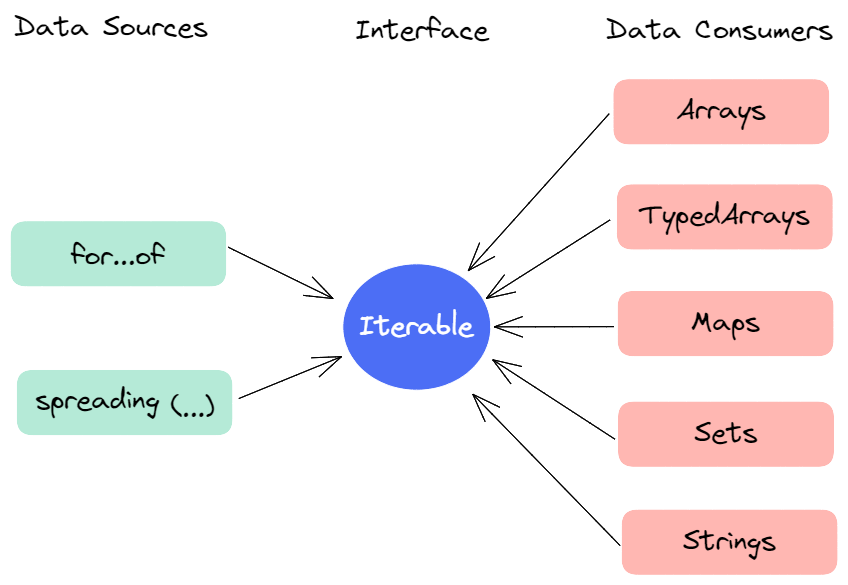
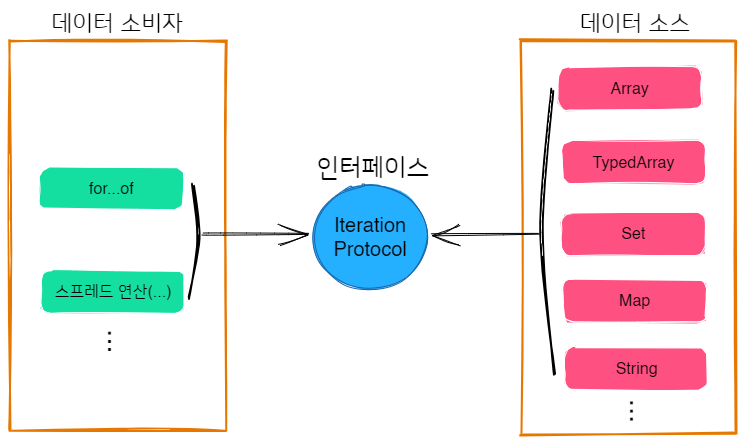
'자바스크립트 Iteration 프로토콜' 포스트 개정

diff --git a/content/blog/javascript/iteration-protocol.md b/content/blog/javascript/iteration-protocol.md
@@ -7,18 +7,22 @@ draft: false
 
 ## Iteration 프로토콜
 
-자바스크립트의 iteration 프로토콜은 데이터 소스(sources)와 데이터 소비자(consumer) 개체(entity)를 연결하는 역할을 합니다. Iteration은 데이터 소스가 구현한 `Iterable` 이라는 인터페이스를 데이터 소비자가 사용하는 방식으로 동작합니다:
+자바스크립트의 **Iteration 프로토콜**은 데이터 소비자(data consumer)가 다양한 종류의 데이터 소스(data source)를 순회할 때 일관된 방식으로 순회할 수 있도록 데이터 제공자와 데이터 소비자를 연결하는 *인터페이스* 역할을 합니다. 예를 들어, `for...of`(데이터 소비자) 문이 배열과 같은 대표적인 데이터 소스 뿐만 아니라 `Map`, `Set` 자료형과 같은 데이터 소스를 순회할 때도 일관된 방식으로 순회할 수 있도록 규칙을 정한 것이죠.
+
+자바스립트에서 순회는 데이터 소스가 구현한 `Iterable` 이라는 인터페이스를 데이터 소비자가 사용하는 방식으로 동작합니다:
 
 <figure>
     <img src="https://cdn.jsdelivr.net/gh/jaehyeon48/jaehyeon48.github.io@master/assets/images/javascript/iterator-protocol/data_sources_and_consumers.png" alt="JavaScript data sources and consumers">
-    <figcaption>자바스크립트 데이터 소스와 데이터 소비자 및 이들을 연결하는 인터페이스</figcaption>
+    <figcaption>자바스크립트 데이터 제공자와 데이터 소비자 및 이들을 연결하는 인터페이스</figcaption>
 </figure>
 
 자바스크립트 iteration 프로토콜에는 **iterable 프로토콜**과 **iterator 프로토콜**이 존재하는데, 하나씩 살펴봅시다.
 
 ## Iterable 프로토콜
 
-Iterable 프로토콜은 자바스크립트 객체가 `for...op`문, `...`연산과 같은 "iteration" 동작을 할 때 어떤 식으로 행동할지를 정의하는 프로토콜 입니다. 객체가 `iterable`이 되기 위해선 해당 객체의 내부 혹은 프로토타입 체인내에 `@@iterator` 메서드가 존재해야 합니다. `@@iterator`는 [well-known-symbol](https://tc39.es/ecma262/#sec-well-known-symbols)이라고 하는데, [Symbol.iterator](https://developer.mozilla.org/en-US/docs/Web/JavaScript/Reference/Global_Objects/Symbol/iterator)라는 상수를 통해 접근할 수 있습니다. ES2021을 기준으로 자바스크립트에는 `String`, `Array`, `TypedArray`, `Map`, `Set` 5가지 내장 iterable이 존재합니다.
+`for...of`, `...`연산과 같은 순회 동작을 할 때 데이터 공급자가 어떤 식으로 동작할지를 정의하는 프로토콜을 **Iterable 프로토콜**이라고 합니다. 이때 iterable 프로토콜을 만족하는 객체를 `Iterable` 이라고 합니다.
+
+자바스크립트 객체가 `Iterable`이 되기 위해선 해당 객체의 내부 혹은 프로토타입 체인 내에 [Symbol.iterator](https://developer.mozilla.org/en-US/docs/Web/JavaScript/Reference/Global_Objects/Symbol/iterator) 메서드가 정의되어 있어야 하고, 이 메서드는 "iterator"를 반환해야 합니다. ES2021을 기준으로 자바스크립트에는 `String`, `Array`, `TypedArray`, `Map`, `Set` 5가지 built-in iterable이 존재합니다.
 
 Iterable을 타입스크립트 인터페이스로 나타내면 다음과 같습니다:
 
@@ -30,9 +34,9 @@ interface Iterable<T> {
 
 ## Iterator 프로토콜
 
-Iterator 프로토콜은 iterable 객체를 iteration할 때 어떤 값을 생성할 것인가를 정의하는 프로토콜입니다. 객체가 `iterator`가 되기 위해선 `iteration result` 객체를 반환하는 `next()` 메서드를 가지고 있어야 합니다.
+**Iterator 프로토콜**은 데이터 소스를 순회할 때 어떤 값을 생성할 것인가를 정의하는 프로토콜로서, iterator 프로토콜을 만족하는 객체를 `iterator`라고 합니다. 이때, 어떤 객체가 iterator 프로토콜을 만족하기 위해선 `iteration result` 객체를 반환하는 `next()` 메서드를 가지고 있어야 합니다.
 
-Iterator와 iteration result 객체를 타입스크립트 인터페이스로 나타내면 다음과 같습니다:
+`Iterator`와 `iteration result` 객체를 타입스크립트 인터페이스로 나타내면 다음과 같습니다:
 
 ```ts
 interface Iterator<T> {
@@ -45,22 +49,20 @@ interface IteratorResult<T> {
 }
 ```
 
-IterationResult 객체의 `value`와 `done` 속성이 나타내는 것은 다음과 같습니다:
+`IterationResult` 객체의 `value`와 `done` 속성이 나타내는 것은 다음과 같습니다:
 
-- **value**: `iterator`에 의해 반환된 값입니다. 아무 타입이나 가능하며, `done` 속성이 `true`이면 생략될 수도 있습니다.
-- **done**: iteration의 종료 여부를 나타내는 boolean 값입니다. 이 속성을 생략하면 `done: false`로 간주합니다.
+- **value**: `iterator`에 의해 반환된 값으로, 특정 순회에서 사용되며 아무 타입이나 가능합니다. 만약 `done` 속성이 `true`이면 생략될 수도 있습니다.
+- **done**: 순회 종료 여부를 나타내는 boolean 값으로, 이 속성을 생략하면 `done: false`로 간주합니다.
 
-<br />
-
-`next()` 메서드는 반드시 `value`와 `done` 속성이 존재하는 객체를 반환해야만 합니다. `false`와 같은 원시 타입이 반환되면 `TypeError`가 발생합니다.
+이때, `next()` 메서드는 반드시 `value`와 `done` 속성이 존재하는 객체를 반환해야 합니다. `false`와 같은 원시 타입이 반환되면 `TypeError`가 발생합니다.
 
 `for...of` 문의 `break`을 사용하는 경우 혹은 예외 상황과 같이, `iteration result` 객체의 `done` 속성이 `true`가 되기 전에 iteration이 종료되는 경우도 있습니다. 이 경우 자바스크립트 엔진은 `iterator` 객체에 `return()` 메서드가 존재하는지 살펴보고 만약 존재한다면 이 메서드를 아무런 인자 없이 호출합니다. 이때 `return()` 메서드 또한 반드시 `iteration result` 객체를 반환해야만 하는데, 비록 반환된 객체의 속성이 무시되기는 하지만 그렇다고 원시 타입을 반환하면 에러가 발생합니다. `return()` 메서드는 주로 iteration 동작을 종료한 뒤 클린업 작업을 수행해야 할 때, 예기치 못한 에러 등으로 인해 동작이 중간에 종료되는 경우에도 정상적으로 클린업 작업을 수행하기 위해 사용합니다.
 
-## Iterable 객체를 iterate 하는 방법
+## Iterable 객체를 순회하는 방법
 
-`Iterable` 객체를 iterate 하는 방법은 다음과 같습니다:
+`Iterable` 객체를 순회하는 방법은 다음과 같습니다:
 
-1. `Iterable` 객체의 `@@iterator` 메서드를 호출하여 해당 객체의 `iterator` 객체를 획득합니다.
+1. `Iterable` 객체의 `Symbol.iterator` 메서드를 호출하여 해당 객체의 `iterator` 객체를 획득합니다.
 2. `iterator` 객체가 반환하는 `iteration result` 객체의 `done` 속성값이 `true`가 될 때까지 `next()` 메서드를 호출합니다.
 
 이를 그림으로 나타내면 다음과 같습니다:
@@ -93,31 +95,91 @@ for (const elem of iterable) {
 
 예를 들어 아주 긴 문자열을 공백으로 분리하여 여러 단어들로 토큰화하는 경우를 생각해봅시다. `.split()` 메소드를 사용하면 손쉽게 할 수 있지만, 이렇게 하면 분리하여 얻은 첫 번째 단어를 사용하기도 전에 미리 모든 문자열을 처리해놓게 됩니다. 만약 이렇게 했다가 나중에 알고 보니 처음 몇 개의 단어만 사용하고 나머지는 사용하지 않게 된다면 불필요한 메모리 낭비를 초래하게 됩니다.
 
-또한 `iterable`, `iterator` 프로토콜을 통해 배열과 같이 주로 iteration의 대상이 되는 자료 구조 이외의 어느 자료구조라도 손쉽게 iteration을 할 수 있게 됩니다.
+여태껏 살펴본 내용을 정리해보면 다음과 같습니다:
 
-## 비동기 iteration
+- **iteration protocol**: 다양한 종류의 데이터 소스를 일관된 방식으로 순회할 수 있도록 정의한 인터페이스.
+- **iterable**: iterable protocol을 만족하는 객체로서, `iterator`를 반환하는 `Symbol.iterator()` 메서드를 가지고 있거나 프로토타입 체인을 통해 찾을 수 있는 객체.
+- **iterator**: `iteration result` 객체를 반환하는 `next()` 메서드를 구현한 객체.
+- **iteration result**: 특정 순회에서 사용되는 값인 `value`와 순회 종료 여부를 나타내는 `done` 프로퍼티를 가지고 있는 객체.
 
-우선 앞서 살펴본 iterator와 iterator result의 인터페이스를 다시 한번 살펴봅시다:
+## 예시
 
-```ts
-interface Iterator<T> {
-  next(): IteratorResult<T>;
-}
+우선, `iterable`이 아닌 일반 객체를 살펴봅시다:
 
-interface IteratorResult<T> {
-  value: T;
-  done: boolean;
+```js
+// iterable이 아닌 일반 객체는 for...of문을 사용할 수 없습니다.
+const normalObj = { a: 1, b: 2 };
+
+// TypeError: normalObj is not iterable
+for (const value of normalObj) {
+  console.log(value);
 }
 ```
 
-비동기 iteration 프로토콜을 구현하기 위해선 `next()` 메서드의 반환 값을 비동기로 전달하기만 하면 됩니다. 이를 위해 다음의 두 가지 방법을 고려해볼 수 있습니다:
+하지만 위 객체가 iterable 프로토콜을 준수하도록 `Symbol.iterator()` 메서드를 구현하고, 이 메서드에서 iterator를 리턴하도록 하면 아래와 같이 `for...of` 문을 순회할 수 있게 됩니다:
 
-- `value`만 프로미스로 감쌀 것인가? (`value`의 타입이 `Promise<T>`)
-- `next()` 메서드가 프로미스를 반환할 것인가? (`next()`의 리턴 타입이 `Promise<IteratorResult<T>>`)
+```js
+function range(from, to) {
+  let curVal = from - 1;
 
-하지만 생각해보면 두 번째 방법이어야만 합니다. 그 이유는 `next()` 메서드가 결과를 반환할 때 비동기 작업을 수행하기 때문인데, 작업의 결과값을 반환할지 아니면 iteration의 종료를 알릴지는 비동기 작업이 끝난 이후에야 할 수 있습니다. 다시 말해, `value`와 `done` 속성 모두 프로미스로 감싸야 한다는 의미입니다.
+  // Symbol.iterator() 메서드를 구현함으로써 이 객체는
+  // iterable이 됩니다.
+  return {
+    [Symbol.iterator]() {
+      // Symbol.iterator() 메서드는 iterator를 반환해야 합니다.
+      return {
+        // next() 메서드는 iteration result 객체를 반환해야 합니다.
+        next() {
+          // iteration result 객체
+          curVal++;
+          
+          return {
+            value: curVal,
+            done: curVal === to
+          };
+        }
+      };
+    }
+  };
+}
 
-비동기 iteration에 대한 인터페이스는 다음과 같습니다:
+for (const value of range(1, 5)) {
+  console.log(value); // 1 2 3 4
+}
+```
+
+이때, 어떤 객체가 `iterable` 이면서 `iterator` 이도록 구현할 수 있는데, 이렇게 하면 좀 더 간단하게 `iterable`을 만들 수 있습니다:
+
+```js
+function range(from, to) {
+  let curVal = from - 1;
+
+  return {
+    [Symbol.iterator]() { return this; },
+    next() {
+      curVal++;
+
+      return {
+        value: curVal,
+        done: curVal === to
+      };
+    }
+  };
+}
+
+for (const value of range(1, 5)) {
+  console.log(value); // 1 2 3 4
+}
+```
+
+## 비동기 iteration
+
+비동기 `iterable`과 `iterator`는 앞서 살펴본 동기식 `iterable`, `iterator`와 거의 흡사합니다. 다만 차이점이라면,
+
+1. 비동기 `iterable`에는 `Symbol.iterator()` 대신 `Symbol.asyncIterator()`가 구현되어 있습니다.
+2. 비동기 `iterator`의 `next()` 메서드는 `iteration result` 객체를 반환하는 *프로미스*를 반환합니다. 즉, 비동기 `iterator`의 `next()` 메서드를 호출하면 즉시 `iteration result`가 반환되는 것이 아니라 `iteration result`로 resolve되는 프로미스가 반환됩니다 (물론 언제 `iteration result` 객체로 resolve될 지는 알 수 없습니다. 그것이 비동기니까요!). 또한, `iteration result` 객체로 resolve되는 프로미스가 반환됨으로 인한 또 다른 차이점은, `done` 값이 비동기로 반환되다 보니 언제 순회가 종료되는지도 비동기적으로 결정된다는 점입니다.
+
+비동기 iteration에 대한 인터페이스를 나타내면 다음과 같습니다:
 
 ```ts
 interface AsyncIterable<T> {
@@ -134,9 +196,36 @@ interface IteratorResult<T> {
 }
 ```
 
-이러한 비동기 iteration 프로토콜을 이용하여 `for await...of` 문을 사용할 수 있습니다.
+이러한 비동기 iteration 프로토콜을 사용하는 경우, `for await...of` 문을 사용할 수 있습니다:
 
-## Reference
+```js
+function waitFor(time) {
+  return new Promise(resolve => setTimeout(resolve, time));
+}
+
+function asyncRange(from, to) {
+  let curVal = from - 1;
+
+  return {
+    [Symbol.asyncIterator]() { return this; },
+    async next() {
+      curVal++;
+      await waitFor(1000);
+
+      return {
+        value: curVal,
+        done: curVal === to
+      };
+    }
+  };
+}
+
+for await (const value of asyncRange(1, 5)) {
+  console.log(value); // 1 2 3 4
+}
+```
+
+## 레퍼런스
 
 [Iteration protocols - MDN](https://developer.mozilla.org/en-US/docs/Web/JavaScript/Reference/Iteration_protocols)
 
